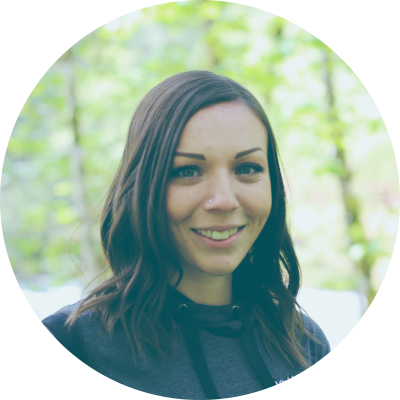
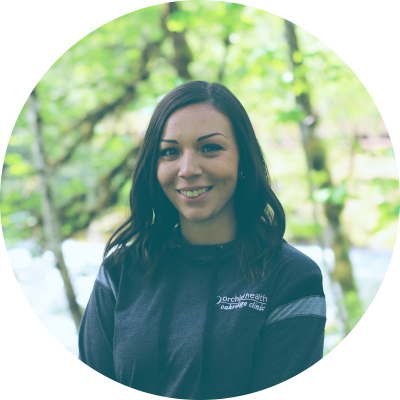
Oakridge Page - Added new hours, removed Susan Goddard and added a new headshot for Leanna Dick, Added new footer link to 4 pages

diff --git a/public_html/oakridge.html b/public_html/oakridge.html
@@ -712,41 +712,6 @@
                     <!-- END TEAM MEMBER -->
 
 
-
-                    <!-- START TEAM MEMBER -->
-                    <div class="row team-container">
-                        <div class="col-md-2">
-                            <img src="team/oakridge/Susie_Goddard_Headshot.png" alt="Headshot" class="img-responsive">
-                        </div>
-                        <div class="col-md-10">
-                            <button class="expand-details">Read More   +</button>
-                            <h3>Susie Goddard</h3>
-                            <h4>Community Health Worker</h4>
-                            <p>
-                                <strong>Specialty:</strong>  Aligning the Clinic to the Community and the Community to the Clinic
-                            </p>
-                            <p>
-                                <strong>Clinical Interests:</strong> Person-Centered Care and with my help see people of the community excel in life.
-                            </p>
-                            <p>
-                                <strong>Languages:</strong> English
-                            </p>
-                            <div class="team-details">
-                                <div>
-                                    <h5>Education and Certification:</h5>
-                                    <p>Community Health Worker - Certificate, Medical Assisting - AS, Health Information Technology - AS, Billing and Coding - Diploma</p>
-                                    <h5>Biography:</h5>
-                                    <p>Susan Goddard brings a diverse background and a wealth of experience to the Oakridge Clinic at Orchid Health. Born in Detroit, Michigan, and having lived across various places like California, Florida, and different parts of Oregon, Susan's journey has been as dynamic as her career.</p>
-                                    <p>Educationally, Susan holds an Associates Degree in Medical Assisting and Health Information Technology, complemented by a Diploma in Billing and Coding. Her professional journey spans over fifteen years, encompassing roles in social work and case management with both the County of Riverside and the State of Oregon. Susan has a year of clinical experience with the Department of Health in Florida and has also worked in the specialized realm of Child Support in the State of Florida, focusing on Court and Administrative support orders. Prior to joining Orchid Health, Susan worked as a Medical Assistant alongside an Orthopaedic Surgeon.</p>
-                                    <p>Currently, Susan is dedicated to making a positive impact on the Oakridge community through her role at Orchid Health, concurrently serving as a caregiver for individuals in the same community. Her focus revolves around strengthening the community one step at a time, delivering outstanding service every day.</p>
-                                    <p>Outside of her professional commitments, Susan is a multifaceted individual with a passion for reading, hiking, biking, camping, fishing, gardening, boating, hunting, and coastal adventures. Her cherished moments involve spending quality time with her significant other, children, grandchildren, and her five furry companions.</p>
-
-                                </div>
-                            </div>
-                        </div>
-                    </div>
-                    <!-- END TEAM MEMBER -->
-
                     <!-- START SUPPORT TEAM -->
                     <div class="row">
                         <div class="col-md-10 col-md-offset-2">
@@ -1027,8 +992,8 @@
                             </p>
                             <p>
                                 <strong>Hours:</strong>
-                                <br>8:30am – 7pm, Monday - Wednesday
-                                <br>8:30am – 5pm, Thursday - Friday
+                                <br>Monday, Thursday, Friday - Close at 5:00pm
+                                <br>Tuesday & Wednesday - Close at 7:00pm
                             </p>
                             <p>
                                 <em>
@@ -1425,7 +1390,7 @@
                     </div>
                 </div>
                 <div class="col-md-9 footer-links">
-                    <a href="https://www.facebook.com/OrchidHealthWadeCreekClinic/">
+                    <a href="https://www.facebook.com/oakridgeclinic">
                         FACEBOOK
                     </a>
                     <a href="#" data-scrollto="#patient-forms">

diff --git a/public_html/sandy.html b/public_html/sandy.html
@@ -1305,7 +1305,7 @@
                     </div>
                 </div>
                 <div class="col-md-9 footer-links">
-                    <a href="https://www.facebook.com/OrchidHealthWadeCreekClinic/">
+                    <a href="https://www.facebook.com/people/Orchid-Health-Sandy-Clinic/61554500954618/">
                         FACEBOOK
                     </a>
                     <a href="#" data-scrollto="#patient-forms">

diff --git a/public_html/mckenzie.html b/public_html/mckenzie.html
@@ -1226,7 +1226,7 @@
                     </div>
                 </div>
                 <div class="col-md-9 footer-links">
-                    <a href="https://www.facebook.com/OrchidHealthWadeCreekClinic/">
+                    <a href="https://www.facebook.com/McKenzieRiverClinic">
                         FACEBOOK
                     </a>
                     <a href="#" data-scrollto="#patient-forms">

diff --git a/public_html/fernridge.html b/public_html/fernridge.html
@@ -1343,7 +1343,7 @@
                     </div>
                 </div>
                 <div class="col-md-9 footer-links">
-                    <a href="https://www.facebook.com/OrchidHealthWadeCreekClinic/">
+                    <a href="https://www.facebook.com/FernRidgeClinic/">
                         FACEBOOK
                     </a>
                     <a href="#" data-scrollto="#patient-forms">
